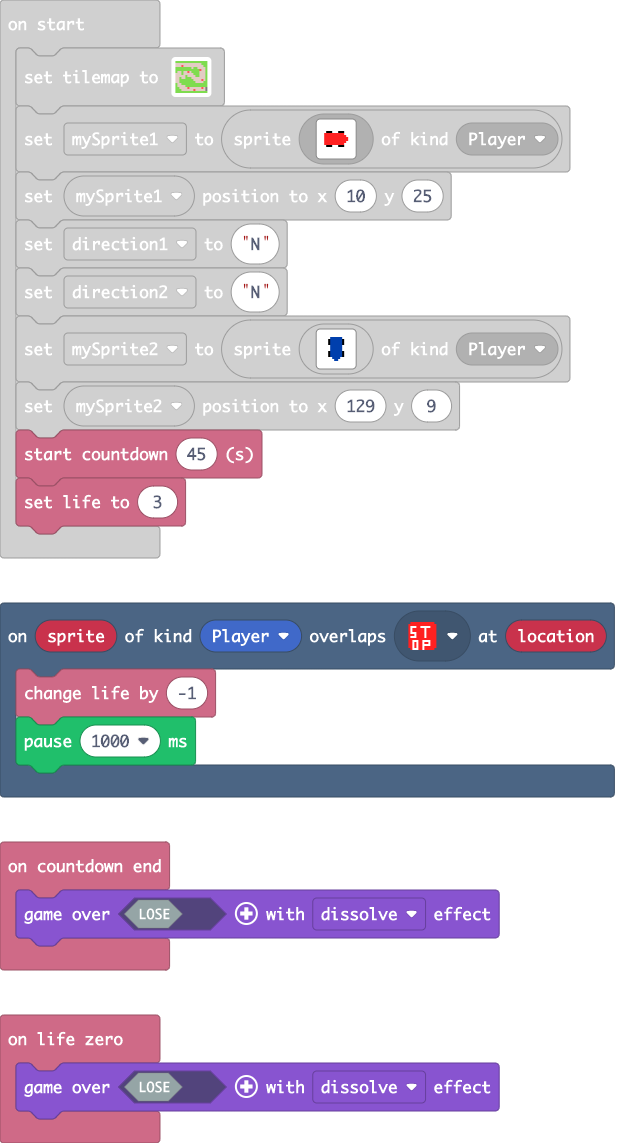
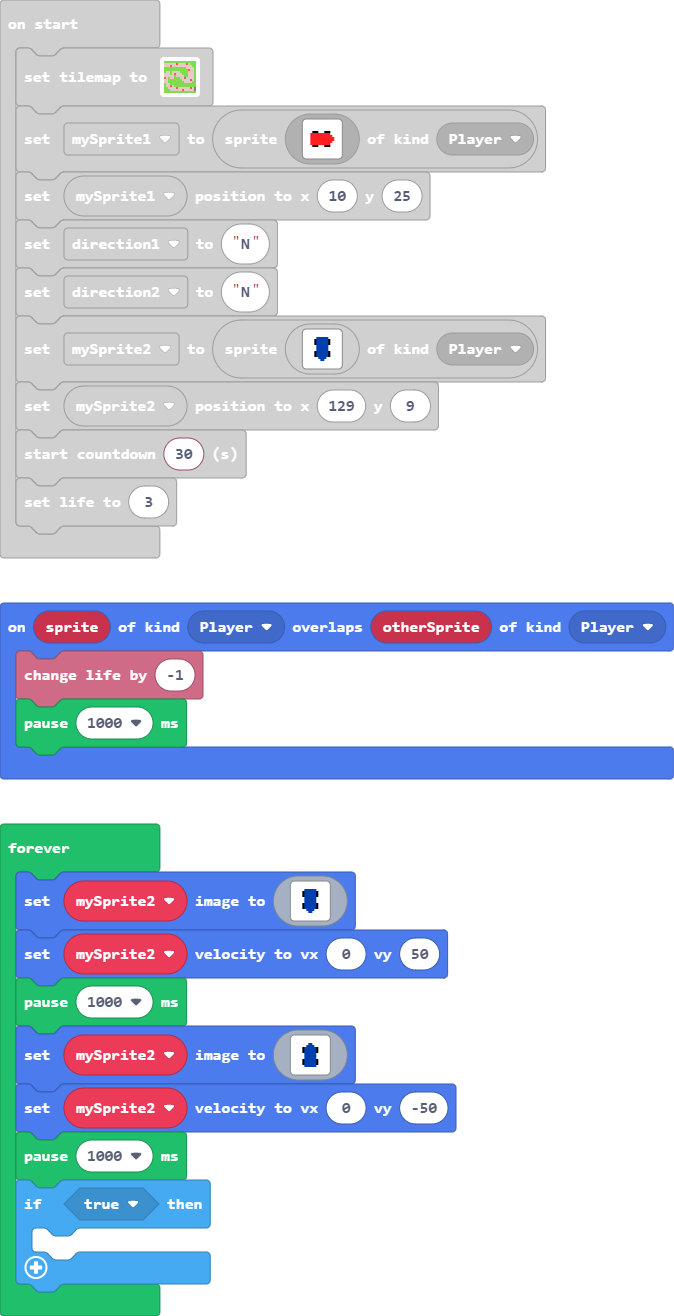
a;slkdjf;lkasdfnjkasdbf;kjhdnjfqewlkrkaesbd fkjsdbfkjlqwehflkjhelwufhiouasdfbjkwq3ehbrkegfiuosdafkjwqefkqefkjdas;l

diff --git a/main.ts b/main.ts
@@ -137,6 +137,10 @@ controller.down.onEvent(ControllerButtonEvent.Pressed, function () {
         `)
     mySprite1.setVelocity(0, 40)
 })
+sprites.onOverlap(SpriteKind.Player, SpriteKind.Player, function (sprite, otherSprite) {
+    info.changeLifeBy(-1)
+    pause(1000)
+})
 info.onLifeZero(function () {
     game.over(false, effects.dissolve)
 })
@@ -188,8 +192,53 @@ let mySprite2 = sprites.create(img`
     . . . . . . . . . . . . . . . . 
     `, SpriteKind.Player)
 mySprite2.setPosition(129, 9)
-info.startCountdown(45)
+info.startCountdown(30)
 info.setLife(3)
+forever(function () {
+    mySprite2.setImage(img`
+        . . . . . . . . . . . . . . . . 
+        . . . . . . . . . . . . . . . . 
+        . . . . . 8 8 8 8 8 8 . . . . . 
+        . . . . f 8 8 8 8 8 8 f . . . . 
+        . . . . f 8 8 8 8 8 8 f . . . . 
+        . . . . f 8 8 8 8 8 8 f . . . . 
+        . . . . . 8 8 8 8 8 8 . . . . . 
+        . . . . . 8 8 8 8 8 8 . . . . . 
+        . . . . . 8 8 8 8 8 8 . . . . . 
+        . . . . f 8 8 8 8 8 8 f . . . . 
+        . . . . f 8 8 8 8 8 8 f . . . . 
+        . . . . f 8 8 8 8 8 8 f . . . . 
+        . . . . . . 8 8 8 8 . . . . . . 
+        . . . . . . . 8 8 . . . . . . . 
+        . . . . . . . . . . . . . . . . 
+        . . . . . . . . . . . . . . . . 
+        `)
+    mySprite2.setVelocity(0, 50)
+    pause(1000)
+    mySprite2.setImage(img`
+        . . . . . . . . . . . . . . . . 
+        . . . . . . . . . . . . . . . . 
+        . . . . . . . 8 8 . . . . . . . 
+        . . . . . . 8 8 8 8 . . . . . . 
+        . . . . f 8 8 8 8 8 8 f . . . . 
+        . . . . f 8 8 8 8 8 8 f . . . . 
+        . . . . f 8 8 8 8 8 8 f . . . . 
+        . . . . . 8 8 8 8 8 8 . . . . . 
+        . . . . . 8 8 8 8 8 8 . . . . . 
+        . . . . . 8 8 8 8 8 8 . . . . . 
+        . . . . f 8 8 8 8 8 8 f . . . . 
+        . . . . f 8 8 8 8 8 8 f . . . . 
+        . . . . f 8 8 8 8 8 8 f . . . . 
+        . . . . . 8 8 8 8 8 8 . . . . . 
+        . . . . . . . . . . . . . . . . 
+        . . . . . . . . . . . . . . . . 
+        `)
+    mySprite2.setVelocity(0, -50)
+    pause(1000)
+    if (true) {
+    	
+    }
+})
 forever(function () {
     scene.cameraFollowSprite(mySprite1)
 })

diff --git a/tilemap.g.ts b/tilemap.g.ts
@@ -29,7 +29,7 @@ namespace myTiles {
 2 . 2 . . . . . . . . . . . . 2 
 . . . 2 2 2 2 2 2 2 2 2 2 2 2 2 
 `, [myTiles.transparency16,sprites.castle.tilePath5,myTiles.tile1,sprites.castle.tileGrass1], TileScale.Sixteen)
-            case "level_0": return tiles.createTilemap(hex`1000100003030303030303030303030303030303010101010101010101010101010303030101010401010101010101010101030303030303030303030103030101010103030303030303030303030303040101030301010301010401030303030101010301010103010101010103030301010103010101010103010101010303010101030101030101030303010101010101010301010303030303030301010101040103010103030303030303030101010103030301010303030303030303030303030303010101010303030303030303030303030301010101040101010101010401020303030101010101010401010101010203030303030303030303030303030303`, img`
+            case "level_0": return tiles.createTilemap(hex`1000100003030303030303030303030303030303010101010101040101010104010303030101010401010101010101010101030303030303030303030303030101010103030303030303030303030303040101030301010301010101030303030101010301010103010401010103030301010103010101010103010101010303010101030401030101030303010104010101010301010303030303030301010101040103010103030303030303030101010103030301010303030303030303030303030303010104010303030303030303030303030301010101040101010101010401020303030101010101010401010101010203030303030303030303030303030303`, img`
 2 2 2 2 2 2 2 2 . 2 2 2 2 . . . 
 . . . . . . . . . . . . . 2 . . 
 . . . . . . . . . . . . . . 2 . 
